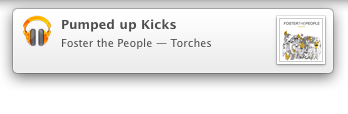
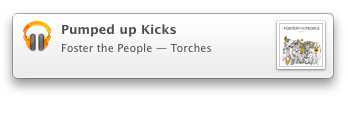
Update 'notification' image, restyle feature images

Changed region(s): [[0.0, 0.0, 1.0, 0.7632], [0.1724, 0.3421, 0.6034, 0.4737], [0.1724, 0.1579, 0.5172, 0.3158]]

diff --git a/stylesheets/stylesheet.css b/stylesheets/stylesheet.css
@@ -224,7 +224,8 @@ ul, ol, dl {
 }
 
 .feature img {
-  max-width: 80%;
+  display: block;
+  margin: auto;
 }
 
 
